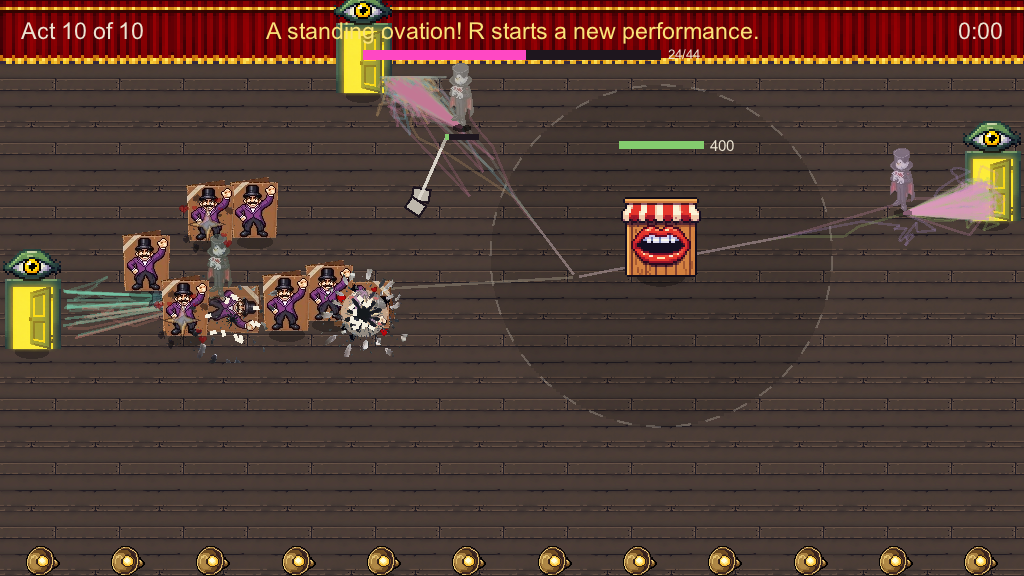
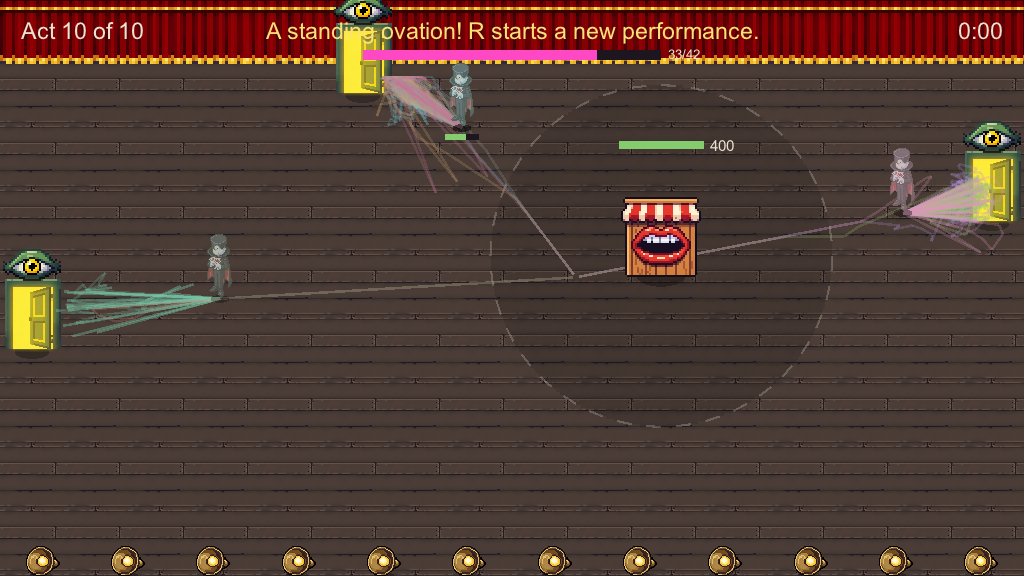
T25: the panels show a card's stage name, its flavour in the smaller face and the sentence with the rule; a burst is a ring, a turned card's trail starts where it turned; the frames taken again
The texts are the card catalogue's, in code (decision 29). Seed 1 still reaches the ovation; 26554 is the
sixth act's encore now and 19512 a fight at the second door with cards that go on through the crowd.

Claude-Session: https://claude.ai/code/session_01V4qXWgB4bHFXePzLiSUbYT

diff --git a/src/Understudies.Game/ProgramScreen.cs b/src/Understudies.Game/ProgramScreen.cs
@@ -16,9 +16,11 @@ internal sealed partial class UnderstudiesGame
     // bottom edge: the box office is clear of them, and whoever stands in front of it, or anywhere on that strip
     // of the floor, the magician too, is behind them. Under them the countdown, and at the stage's bottom edge
     // what the magician holds.
-    private static readonly Vector2 PanelSize = new(13f, 6.5f);
-    private const float PanelGap = 1.5f;
-    private const float PanelLift = 11.9f;
+    // A panel is as wide as three leave room for and as tall as the floor below the box office lets it be: a name,
+    // two lines of flavour and three of what the card does (plan T25, decision 29).
+    private static readonly Vector2 PanelSize = new(14.6f, 7.3f);
+    private const float PanelGap = 1f;
+    private const float PanelLift = 12.4f;
 
     // The band along a panel's top says whose the card is, and the highlighted panel stands this much higher
     // than the others, in a frame this thick.
@@ -28,6 +30,13 @@ internal sealed partial class UnderstudiesGame
 
     private const float NameHeight = 1.2f;
     private const float SmallWordsHeight = 0.8f;
+
+    // The flavour is the smaller face, under the name; what the card does is the larger, under that, and starts
+    // at one height on every panel. A line of either is no wider than the panel less this at each side.
+    private const float FlavourHeight = 0.6f;
+    private const float FlavourPitch = 0.7f;
+    private const float SentencePitch = 0.9f;
+    private const float PanelMargin = 0.5f;
     private const float CountdownHeight = 1f;
     private static readonly Vector2 CountdownBar = new(20f, 0.4f);
 
@@ -166,7 +175,7 @@ internal sealed partial class UnderstudiesGame
         {
             float time = _simulation.Phase == Phase.Encore ? Tuning.EncoreTime : Tuning.ProgramTime;
             FillBar(
-                new Vector2((Tuning.StageSize.X - CountdownBar.X) / 2f, PanelsBottom + 2f),
+                new Vector2((Tuning.StageSize.X - CountdownBar.X) / 2f, PanelsBottom + 1.8f),
                 CountdownBar,
                 _simulation.OfferTicksLeft / MathF.Max(1f, time * Simulation.TicksPerSecond),
                 Words);
@@ -194,9 +203,16 @@ internal sealed partial class UnderstudiesGame
             0.5f,
             ApplauseHeart);
 
-        var held = Enum.GetValues<Card>().Where(card => Held(card) > 0).Select(card => $"{Describe(card).Name} x{Held(card)}");
-        string holds = string.Join(", ", held) is { Length: > 0 } cards ? $"You hold: {cards}" : "You hold no card yet.";
-        Write(SmallWordsHeight, holds, new Vector2(middle, Tuning.StageSize.Y - 0.8f), 0.5f, Words);
+        // Nine kinds of card do not go in one line: as many lines as it takes, the last where the one line was.
+        string[] held = [.. Enum.GetValues<Card>().Where(card => Held(card) > 0).Select(card => $"{Describe(card).Name} x{Held(card)}")];
+        List<string> holds = held.Length == 0
+            ? ["You hold no card yet."]
+            : Wrapped(SmallWordsHeight, ["You hold:", .. held[..^1].Select(card => $"{card},"), held[^1]], Tuning.StageSize.X - 2f);
+        for (int line = 0; line < holds.Count; line++)
+        {
+            float up = (holds.Count - 1 - line) * SentencePitch;
+            Write(SmallWordsHeight, holds[line], new Vector2(middle, Tuning.StageSize.Y - 0.6f - up), 0.5f, Words);
+        }
 
         if (!ProgramIsShown)
         {
@@ -207,31 +223,39 @@ internal sealed partial class UnderstudiesGame
         {
             Card card = _offered[place];
             bool chorus = card == Card.ChorusDamage;
-            (string name, string first, string second) = Describe(card);
+            (string name, string sentence, string flavour) = Describe(card);
             Vector2 topLeft = PanelTopLeft(place);
             Vector2 centre = topLeft + new Vector2(PanelSize.X / 2f, 0f);
             Color ink = Ink * Seen(place);
 
-            // The band: the card's key at its left end, and whose the card is.
+            // The band: the card's key at its left end, whose the card is, and at its right end how many of it
+            // are held.
             Write(SmallWordsHeight, $"{place + 1}", topLeft + new Vector2(0.4f, PanelBand / 2f), 0f, ink);
+            if (Held(card) > 0)
+            {
+                Write(SmallWordsHeight, $"x{Held(card)}", topLeft + new Vector2(PanelSize.X - 0.4f, PanelBand / 2f), 1f, ink);
+            }
+
             Write(
                 SmallWordsHeight,
                 chorus ? "For every understudy" : "For the magician",
                 centre + new Vector2(0f, PanelBand / 2f),
                 0.5f,
                 ink);
-            Write(NameHeight, name, centre + new Vector2(0f, 2.4f), 0.5f, ink);
-            Write(SmallWordsHeight, first, centre + new Vector2(0f, 3.7f), 0.5f, ink);
-            Write(SmallWordsHeight, second, centre + new Vector2(0f, 4.7f), 0.5f, ink);
-
-            if (Held(card) > 0)
+            // The name, no wider than the panel; under it the flavour in the smaller face, and under that what
+            // the card does, which is what is read first: the larger face and the darker ink.
+            float room = PanelSize.X - (2f * PanelMargin);
+            Write(NameHeight * MathF.Min(1f, room / Wide(NameHeight, name)), name, centre + new Vector2(0f, 2.15f), 0.5f, ink);
+            List<string> flavours = Wrapped(FlavourHeight, flavour.Split(' '), room);
+            for (int line = 0; line < flavours.Count; line++)
             {
-                Write(
-                    SmallWordsHeight,
-                    chorus ? $"the chorus has {Held(card)}" : $"you have {Held(card)}",
-                    centre + new Vector2(0f, PanelSize.Y - 0.7f),
-                    0.5f,
-                    FaintInk * Seen(place));
+                Write(FlavourHeight, flavours[line], centre + new Vector2(0f, 3.2f + (line * FlavourPitch)), 0.5f, FaintInk * Seen(place));
+            }
+
+            List<string> sentences = Wrapped(SmallWordsHeight, sentence.Split(' '), room);
+            for (int line = 0; line < sentences.Count; line++)
+            {
+                Write(SmallWordsHeight, sentences[line], centre + new Vector2(0f, 4.9f + (line * SentencePitch)), 0.5f, ink);
             }
         }
 
@@ -255,9 +279,32 @@ internal sealed partial class UnderstudiesGame
             choice
                 ? $"Left and right choose, Enter or Space takes. Or press {(_offered.Count == 2 ? "1 or 2" : "1 to 3")}. Gamepad: the stick and A."
                 : "Enter, Space, 1 or a gamepad's A takes it.",
-            new Vector2(middle, PanelsBottom + 3.3f),
+            new Vector2(middle, PanelsBottom + 2.9f),
             0.5f,
             Words);
+    }
+
+    /// <summary>
+    /// The <paramref name="pieces"/> as lines of words a space apart, each line as many of them as are no wider
+    /// than <paramref name="width"/> at that height: a piece is never broken, and one wider than a line has a
+    /// line to itself.
+    /// </summary>
+    private List<string> Wrapped(float height, IEnumerable<string> pieces, float width)
+    {
+        List<string> lines = [];
+        foreach (string piece in pieces)
+        {
+            if (lines.Count > 0 && Wide(height, $"{lines[^1]} {piece}") <= width)
+            {
+                lines[^1] = $"{lines[^1]} {piece}";
+            }
+            else
+            {
+                lines.Add(piece);
+            }
+        }
+
+        return lines;
     }
 
     /// <summary>How many of a card were taken in this performance: the magician's own, or the chorus's.</summary>
@@ -268,28 +315,66 @@ internal sealed partial class UnderstudiesGame
         Card.Range => _simulation.MagicianCards.Range,
         Card.VanishCooldown => _simulation.MagicianCards.VanishCooldown,
         Card.OneMoreCard => _simulation.MagicianCards.OneMoreCard,
+        Card.Pierce => _simulation.MagicianCards.Pierce,
+        Card.Ricochet => _simulation.MagicianCards.Ricochet,
+        Card.Burst => _simulation.MagicianCards.Burst,
         _ => _simulation.ChorusCards,
     };
 
-    /// <summary>A card's name and, in two lines, what one of it changes, in the numbers of now.</summary>
-    private (string Name, string First, string Second) Describe(Card card)
+    /// <summary>
+    /// A card as the player reads it (plan decision 29; the texts are the card catalogue's): its stage name, the
+    /// sentence that says what one more of it does, in the numbers of now, and its line of flavour, which says
+    /// nothing of the rule.
+    /// </summary>
+    private (string Name, string Sentence, string Flavour) Describe(Card card)
     {
         // A point and never a comma, whatever the machine's language. A share is a per cent with a decimal where
         // it has one: an eighth is 12.5% and not 12%.
         static string Say(FormattableString words) => words.ToString(CultureInfo.InvariantCulture);
 
         // A card's share is of the rate and not of the wait: a quarter makes the Vanish come back a quarter
-        // faster, which is a fifth sooner.
+        // faster, which is a fifth sooner. And two of the cards do not add the same again: the pierce's loss is
+        // the tuning's over the cards held and the burst's share the tuning's times them, so each says the number
+        // it would be with this one taken, and the sentence is true of the card that is offered.
+        int withThis = Held(card) + 1;
         return card switch
         {
-            Card.Damage => ("Sharper cards", "your cards hurt", Say($"{Tuning.CardDamage:0.##} more")),
-            Card.AttackSpeed =>
-                ("Quicker hands", "you throw", Say($"{Tuning.CardAttackSpeed * 100f:0.#}% more often")),
-            Card.Range => ("Longer arm", "your throw reaches", Say($"{Tuning.CardRange:0.##} further")),
-            Card.VanishCooldown =>
-                ("Quicker Vanish", "your Vanish comes back", Say($"{Tuning.CardVanishCooldown * 100f:0.#}% faster")),
-            Card.OneMoreCard => ("One more card", "each throw sends one more,", "at the next nearest"),
-            _ => ("Sharper chorus", "every understudy's cards", Say($"hurt {Tuning.CardChorusDamage:0.##} more")),
+            Card.Damage => (
+                "Card Sharp",
+                Say($"Thrown cards hurt for {Tuning.CardDamage:0.##} more. Each copy again."),
+                "Honed on the edge of a bad review."),
+            Card.AttackSpeed => (
+                "Sleight of Hand",
+                Say($"Throws come {Tuning.CardAttackSpeed * 100f:0.#}% more often. Each copy again."),
+                "The hand is quicker than the critic."),
+            Card.Range => (
+                "Long Arm",
+                Say($"Cards reach {Tuning.CardRange:0.##} further. Each copy again."),
+                "Reach the back row. They paid less; they deserve a card too."),
+            Card.VanishCooldown => (
+                "Quick Smoke",
+                Say($"The Vanish comes back {Tuning.CardVanishCooldown * 100f:0.#}% faster. Each copy again."),
+                "The smoke clears. You do not."),
+            Card.OneMoreCard => (
+                "One More for the Lady",
+                "Each throw sends one more card, at the next nearest critic.",
+                "Pick a card. No, you. Yes, you too."),
+            Card.Pierce => (
+                "The Pierce",
+                Say($"A card goes on through the critic it strikes, losing {Tuning.CardPierceLoss / withThis:0.##} each time."),
+                "Through the critic, through the review, through the paper it is printed on."),
+            Card.Ricochet => (
+                "The Ricochet",
+                Say($"A card that strikes turns to the next critic within {Tuning.CardRicochetReach:0.##}. Two copies: twice."),
+                "No review goes unanswered."),
+            Card.Burst => (
+                "The Burst",
+                Say($"Where a card strikes, a ring of {Tuning.CardBurstRadius:0.##} hurts for {Tuning.CardBurstShare * withThis * 100f:0.#}% of the card."),
+                "Applause, but sharp."),
+            _ => (
+                "Louder Chorus",
+                Say($"Every understudy's cards hurt for {Tuning.CardChorusDamage:0.##} more. Each copy again."),
+                "Nine of you, and all of you have opinions."),
         };
     }
 }

diff --git a/src/Understudies.Game/Juice.cs b/src/Understudies.Game/Juice.cs
@@ -51,6 +51,14 @@ internal sealed class Juice(Random random)
     private const float HitBurstTime = 0.25f;
     private const float KillBurstTime = 0.5f;
 
+    // The ring of a card's burst (plan T25) opens from this share of the burst's radius to all of it and goes
+    // out, in this long: a line this thick, in this many straight stretches.
+    private const float RingTime = 0.3f;
+    public const float RingFirstShare = 0.4f;
+    public const float RingLine = 0.15f;
+    public const float RingOpacity = 0.8f;
+    public const int RingStretches = 32;
+
     /// <summary>
     /// The splash is black ink and grey newsprint, and the boards are dark: under it, for the first
     /// <see cref="KillFlashShare"/> of its time, a pale disc this wide and this thick at first, going out.
@@ -170,7 +178,8 @@ internal sealed class Juice(Random random)
         {
             Understudy understudy = simulation.Understudies[i];
             SelfCards cards = understudy.Cards;
-            int has = cards.Damage + cards.AttackSpeed + cards.Range + cards.VanishCooldown + cards.OneMoreCard;
+            int has = cards.Damage + cards.AttackSpeed + cards.Range + cards.VanishCooldown + cards.OneMoreCard
+                + cards.Pierce + cards.Ricochet + cards.Burst;
             if (i == _understudyCards.Count)
             {
                 _understudyCards.Add(has);
@@ -224,6 +233,15 @@ internal sealed class Juice(Random random)
                     Burst(happened.Position, PickUpScraps);
                     break;
 
+                // The burst of a card (plan T25) is a ring on the floor, round the critic the card struck: no
+                // lift, it lies where the rule measures. An understudy's is the dimmer, as its flick is.
+                case TickEventKind.Burst:
+                    _effects.Add((
+                        happened.Thrower == TickEvent.TheMagician ? Effect.Ring : Effect.UnderstudyRing,
+                        happened.Position,
+                        _now));
+                    break;
+
                 case TickEventKind.MagicianHurt:
                     _magicianFlashedAt = FlashNow(_magicianFlashedAt);
                     _trauma = MathF.Min(1f, _trauma + HurtTrauma);
@@ -272,6 +290,7 @@ internal sealed class Juice(Random random)
     {
         Effect.Flick or Effect.UnderstudyFlick => FlickTime,
         Effect.HitBurst => HitBurstTime,
+        Effect.Ring or Effect.UnderstudyRing => RingTime,
         _ => KillBurstTime,
     };
 
@@ -320,6 +339,8 @@ internal sealed class Juice(Random random)
         UnderstudyFlick,
         HitBurst,
         KillBurst,
+        Ring,
+        UnderstudyRing,
     }
 
     private readonly record struct Scrap(Vector2 From, Vector2 Velocity, float BurstAt, float Turn);

diff --git a/src/Understudies.Game/UnderstudiesGame.cs b/src/Understudies.Game/UnderstudiesGame.cs
@@ -665,9 +665,15 @@ internal sealed partial class UnderstudiesGame : Microsoft.Xna.Framework.Game
             }
 
             // The trail: a streak from the middle of the card back along its flight, so that a card that is in the
-            // air for an eighth of a second is seen. It never reaches back past where the card was thrown from.
-            Vector2 back = -Vector2.Normalize(flown)
-                * MathF.Min(Juice.TrailLength, Vector2.Distance(below, card.ThrownFrom));
+            // air for an eighth of a second is seen. It never reaches back past where the card was thrown from,
+            // or where it last turned (plan T25): the trail of a card that turns bends there with it.
+            Vector2 behind = card.ThrownFrom - below;
+            if (behind == Vector2.Zero)
+            {
+                continue;
+            }
+
+            Vector2 back = Vector2.Normalize(behind) * MathF.Min(Juice.TrailLength, behind.Length());
             FillTurned(
                 heart + (back / 2f),
                 new Vector2(back.Length(), Juice.TrailWidth),
@@ -695,6 +701,26 @@ internal sealed partial class UnderstudiesGame : Microsoft.Xna.Framework.Game
                 float wide = FlickSize * (0.4f + (0.6f * effect.Through)) * (understudys ? Juice.UnderstudyFlickSize : 1f);
                 Color light = understudys ? UnderstudysCardFace * Juice.UnderstudyFlickOpacity : Color.White;
                 FillTurned(effect.Middle, new Vector2(wide), MathF.PI / 4f, light * (1f - effect.Through));
+                continue;
+            }
+
+            // A card's burst is a ring that opens to the radius of the rule and goes out.
+            if (effect.Kind is Juice.Effect.Ring or Juice.Effect.UnderstudyRing)
+            {
+                float radius = Tuning.CardBurstRadius * (Juice.RingFirstShare + ((1f - Juice.RingFirstShare) * effect.Through));
+                Color line = (effect.Kind == Juice.Effect.Ring ? ThrownCardFace : UnderstudysCardFace)
+                    * (Juice.RingOpacity * (1f - effect.Through));
+                float stretch = MathF.Tau / Juice.RingStretches;
+                for (int i = 0; i < Juice.RingStretches; i++)
+                {
+                    float turn = (i + 0.5f) * stretch;
+                    FillTurned(
+                        effect.Middle + (new Vector2(MathF.Cos(turn), MathF.Sin(turn)) * radius),
+                        new Vector2(radius * stretch, Juice.RingLine),
+                        turn + (MathF.PI / 2f),
+                        line);
+                }
+
                 continue;
             }
 
